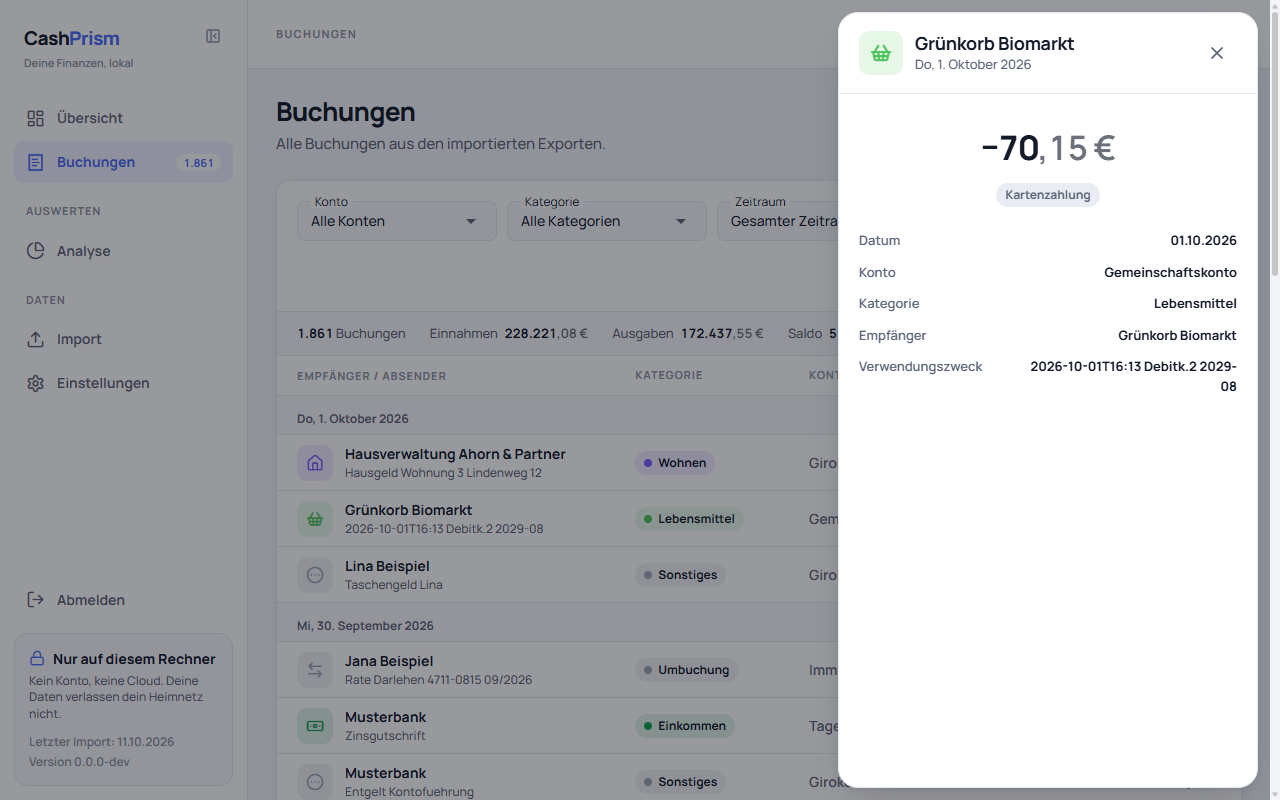
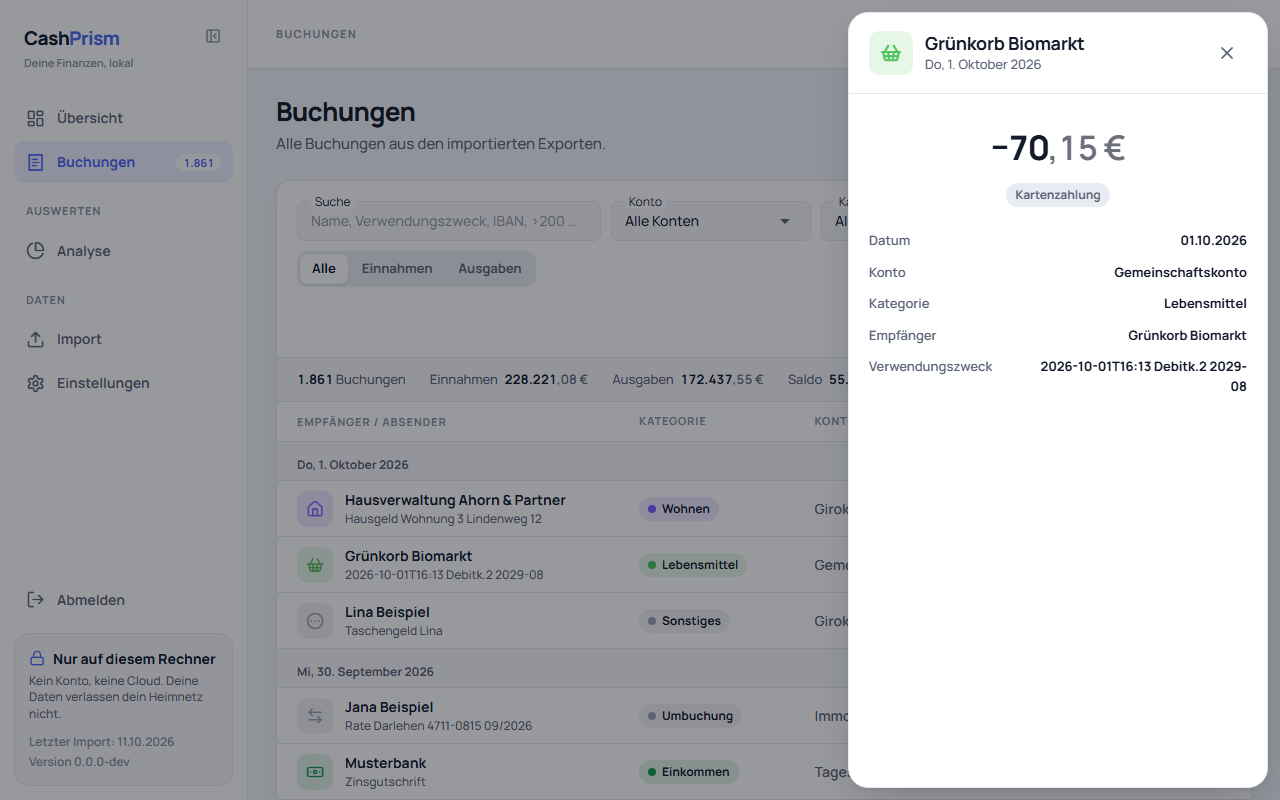
docs: describe the booking search (#166)
- Describe words, folding and amount bounds
- Retake the booking list screenshot
- Add a changelog entry

diff --git a/docs/benutzung.md b/docs/benutzung.md
@@ -430,7 +430,7 @@ gelesen werden.*
 
 ## Die Buchungsliste
 
-![Die Buchungsliste mit Filtern und Summenzeile, nach Tagen gruppiert, rechts die Details einer Buchung](images/benutzung/buchungsliste.png)
+![Die Buchungsliste mit Suchfeld, Filtern und Summenzeile, nach Tagen gruppiert, rechts die Details einer Buchung](images/benutzung/buchungsliste.png)
 
 *Buchungen* zeigt alle gespeicherten Buchungen, zu Beginn die neuesten oben,
 nach Tagen gruppiert: über den Buchungen eines Tages steht *Heute*, *Gestern*
@@ -509,8 +509,28 @@ ursprüngliche Buchung, so wie der Export sie enthält; in die Summen geht sie
 nicht ein, weil ihre Teile schon gezählt sind. Umbuchungen zählen mit, solange
 sie gezeigt werden.
 
-**Suchen gibt es noch nicht.** Die Liste lässt sich nicht nach einem Text oder
-einem Betrag durchsuchen.
+**Suchen:** Das Feld *Suche* vorne in der Filterzeile findet Buchungen nach
+dem, was du noch weißt. Die Suche greift, sobald du Enter drückst oder das
+Feld verlässt; das Kreuz im Feld leert sie wieder. Sie gilt zusammen mit den
+Filtern und steht wie sie in der Adresse, etwa `/bookings?q=rewe`.
+
+- **Wörter** werden in Empfänger oder Absender, im Verwendungszweck und in der
+  IBAN gesucht, auch als Teil eines Wortes. Mehrere Wörter müssen alle
+  vorkommen: `rewe berlin` findet „REWE Markt Berlin-Mitte“, aber nicht „REWE
+  Hamburg“.
+- **Groß- und Kleinschreibung** spielen keine Rolle, Umlaute eingeschlossen.
+  Weil Banken Umlaute oft umschreiben, findet `möbel` auch „MOEBEL“ und
+  `moebel` auch „Möbel“; ebenso `strasse` und „Straße“. Andere Akzente zählen
+  nicht: `cafe` findet „Café“.
+- **Beträge** suchst du mit einem Zeichen davor: `>200` (mehr als 200 €),
+  `>=200`, `<50`, `<=50` oder `=12,99` (genau). Komma und Punkt gehen beide,
+  ein `€` oder `EUR` dahinter wird ignoriert. Verglichen wird der Betrag ohne
+  Vorzeichen: `>200` findet Ausgaben und Einnahmen über 200 €; welche Seite du
+  sehen willst, wählst du mit *Einnahmen* oder *Ausgaben*. Mehrere Angaben
+  gelten zusammen: `>300 <400 rewe` findet REWE-Buchungen zwischen 300 und
+  400 €.
+- Was sich nicht als Betrag lesen lässt, etwa `>abc` oder `>1.000,00` mit
+  Tausenderpunkt, wird als Wort gesucht.
 
 ## Bisherige Importe
 

diff --git a/CHANGELOG.md b/CHANGELOG.md
@@ -30,6 +30,10 @@ releases and the minor version is bumped for every notable change.
 - A category on the overview's ring and in the analysis' comparison table opens
   the booking list on its bookings — the month or the chosen period, transfers
   hidden — so the list counts exactly the bookings behind the figure.
+- The booking list can be searched by words from the counterparty, the payment
+  reference or the IBAN, and by amount — `>200`, `<50`, `=12,99` — together
+  with its filters. Case and umlauts do not matter, so `möbel` also finds the
+  `MOEBEL` a bank writes.
 
 ## [0.1.0] - 2026-10-10
 
